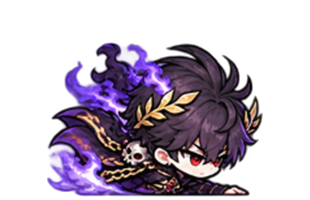
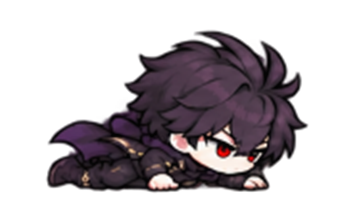
Replace Hades Mythic skin with sleek new character, umbrella & mask sprites and always-on soft behind-hero aura

diff --git a/js/renderer.js b/js/renderer.js
@@ -16,7 +16,7 @@ window.RunRenderer = (function () {
     { id: 'skier', frames: 2 },
     { id: 'santa', frames: 2 },
     { id: 'catgirl', frames: 4, runFrames: 8 },
-    { id: 'hades', frames: 3, idleFrames: 8, runFrames: 8 }
+    { id: 'hades', frames: 3, runFrames: 4 }
   ];
   const CHAR_ANIM_STATES = ['idle', 'run', 'jump', 'fall', 'slide', 'hurt', 'die'];
   const CHAR_VFX_SPRITES = [
@@ -56,7 +56,7 @@ window.RunRenderer = (function () {
   ];
 
   const sprites = {};
-  const CHAR_ASSET_VER = '20261121hd48';
+  const CHAR_ASSET_VER = '20261121hd49';
   const CHEST_TIERS = ['wood', 'silver', 'gold', 'diamond'];
 
   CHEST_TIERS.forEach((tier) => {
@@ -983,29 +983,41 @@ window.RunRenderer = (function () {
       }
     }
 
-    // Fever rainbow aura / Hades 6-frame swirling purple flame ring / Uploaded glowing Shield Ring VFX!
-    if (!dead && feverTimer > 0) {
-      if (skinDef && skinDef.customAuraPrefix) {
-        const af = Math.floor(t * 14) % (skinDef.customAuraFrames || 6);
-        const auraSpr = getSprite(`${skinDef.customAuraPrefix}_${af}`) || getSprite(`${skinDef.customAuraPrefix}_0`);
-        if (auraSpr) {
-          const pulse = 1.0 + Math.sin(t * 10) * 0.05;
-          const aSz = Math.round((isProne ? 58 : scaleHeight * 1.38) * pulse);
-          ctx.save();
-          ctx.globalAlpha = 0.84;
-          ctx.imageSmoothingEnabled = true;
-          ctx.imageSmoothingQuality = 'high';
-          ctx.drawImage(auraSpr, Math.floor(cx - aSz / 2), Math.floor(cy - (isProne ? 16 : scaleHeight * 0.48) - aSz / 2), aSz, aSz);
-          ctx.restore();
-        }
-      } else {
-        ctx.strokeStyle = Math.floor(t * 14) % 2 === 0 ? '#ffe85c' : '#63e8ff';
-        ctx.lineWidth = 2.5;
-        ctx.beginPath();
-        ctx.arc(cx, cy - (isProne ? 14 : scaleHeight * 0.48), isProne ? 24 : scaleHeight * 0.56, 0, Math.PI * 2);
-        ctx.stroke();
+    // Always-on soft glowing underworld aura BEHIND Mythic Hades (intensifies smoothly during FEVER!)
+    if (!dead && skinDef && skinDef.customAuraPrefix) {
+      const isFever = feverTimer > 0;
+      const af = Math.floor(t * (isFever ? 14 : 9)) % (skinDef.customAuraFrames || 6);
+      const auraSpr = getSprite(`${skinDef.customAuraPrefix}_${af}`) || getSprite(`${skinDef.customAuraPrefix}_0`);
+      const auraCy = cy - (isProne ? 18 : scaleHeight * 0.48);
+      // Soft atmospheric ambient purple backlight behind Hades
+      const backR = isFever ? (isProne ? 38 : scaleHeight * 0.82) : (isProne ? 30 : scaleHeight * 0.68);
+      const backGrad = ctx.createRadialGradient(cx, auraCy, 4, cx, auraCy, backR);
+      backGrad.addColorStop(0, isFever ? 'rgba(180, 92, 255, 0.48)' : 'rgba(166, 78, 255, 0.28)');
+      backGrad.addColorStop(1, 'rgba(120, 42, 235, 0)');
+      ctx.save();
+      ctx.fillStyle = backGrad;
+      ctx.beginPath();
+      ctx.arc(cx, auraCy, backR, 0, Math.PI * 2);
+      ctx.fill();
+      if (auraSpr) {
+        const pulse = 1.0 + Math.sin(t * (isFever ? 10 : 4.5)) * 0.05;
+        const aSz = Math.round((isFever ? (isProne ? 60 : scaleHeight * 1.44) : (isProne ? 54 : scaleHeight * 1.30)) * pulse);
+        ctx.globalAlpha = isFever ? 0.84 : (0.36 + Math.sin(t * 4.5) * 0.08);
+        ctx.imageSmoothingEnabled = true;
+        ctx.imageSmoothingQuality = 'high';
+        ctx.drawImage(auraSpr, Math.floor(cx - aSz / 2), Math.floor(auraCy - aSz / 2), aSz, aSz);
       }
-    } else if (!dead && shield) {
+      ctx.restore();
+    }
+
+    // Fever rainbow aura (for non-customAura skins) / Uploaded glowing Shield Ring VFX!
+    if (!dead && feverTimer > 0 && !(skinDef && skinDef.customAuraPrefix)) {
+      ctx.strokeStyle = Math.floor(t * 14) % 2 === 0 ? '#ffe85c' : '#63e8ff';
+      ctx.lineWidth = 2.5;
+      ctx.beginPath();
+      ctx.arc(cx, cy - (isProne ? 14 : scaleHeight * 0.48), isProne ? 24 : scaleHeight * 0.56, 0, Math.PI * 2);
+      ctx.stroke();
+    } else if (!dead && shield && feverTimer <= 0) {
       let ringSpr = null;
       if (skinDef && skinDef.customShieldPrefix) {
         const sf = Math.floor(t * 10) % (skinDef.customShieldFrames || 6);
@@ -1214,15 +1226,15 @@ window.RunRenderer = (function () {
       ctx.drawImage(spr, Math.floor(-drawW / 2), Math.floor(-drawH), drawW, drawH);
       if ('filter' in ctx) ctx.filter = 'none';
 
-      // Uploaded KF94 Mask Sprite OR Mythic Custom Mask (e.g. Hades Skull Flame Mask!)
+      // Uploaded KF94 Mask Sprite OR Mythic Custom Mask (e.g. Hades Purple Mask!)
       if (maskOn && !dead) {
         const customMsk = skinDef && skinDef.customMask ? getSprite(skinDef.customMask) : null;
         const maskSpr = customMsk || getSprite('spr_mask');
         if (maskSpr) {
           const mw = customMsk ? (sliding ? 19 : 21) : (sliding ? 20 : 22);
           const mh = Math.round(mw * (maskSpr.naturalHeight / maskSpr.naturalWidth));
-          const mx = sliding ? Math.floor(drawW * 0.06) : Math.floor(-mw * (customMsk ? 0.06 : 0.14));
-          const my = sliding ? Math.floor(-drawH * 0.40) : Math.floor(-drawH * 0.47);
+          const mx = sliding ? Math.floor(drawW * 0.08) : Math.floor(customMsk ? drawW * 0.02 : -mw * 0.14);
+          const my = sliding ? Math.floor(-drawH * 0.40) : Math.floor(-drawH * (customMsk ? 0.45 : 0.50));
           ctx.drawImage(maskSpr, mx, my, mw, mh);
         } else {
           const my = sliding ? Math.floor(-drawH * 0.34) : Math.floor(-drawH * 0.44);

diff --git a/index.html b/index.html
@@ -13,7 +13,7 @@
   <link rel="apple-touch-icon" sizes="180x180" href="assets/icons/apple-touch-icon-180.png?v=20261121hd21" />
   <link rel="manifest" href="manifest.json?v=20261121hd21" />
   <title>한국 날씨에서 살아남기</title>
-  <link rel="stylesheet" href="style.css?v=20261121hd48" />
+  <link rel="stylesheet" href="style.css?v=20261121hd49" />
 </head>
 <body>
   <div id="mobile-app">
@@ -179,6 +179,7 @@
               <button id="btn-prev-char" class="bs-side-arrow left" type="button" aria-label="이전 캐릭터">◀</button>
 
               <button id="btn-home-char-info" class="bs-podium-btn" type="button" title="캐릭터 능력 및 스킨 보기">
+                <img id="home-hero-aura" src="" alt="" class="bs-hero-aura hidden" aria-hidden="true" />
                 <img id="home-hero-img" src="assets/chars/yellow_run_0.png?v=20261121hd16" alt="선택 캐릭터" class="bs-hero-img running-hero" />
                 <span class="bs-run-dust d1" aria-hidden="true"></span>
                 <span class="bs-run-dust d2" aria-hidden="true"></span>
@@ -851,11 +852,11 @@
   <!-- Official Firebase Auth SDK (Google Real OAuth) -->
   <script src="https://www.gstatic.com/firebasejs/10.14.1/firebase-app-compat.js"></script>
   <script src="https://www.gstatic.com/firebasejs/10.14.1/firebase-auth-compat.js"></script>
-  <script src="js/data.js?v=20261121hd48"></script>
+  <script src="js/data.js?v=20261121hd49"></script>
   <script src="js/audio.js?v=20261121hd9"></script>
-  <script src="js/online.js?v=20261121hd48"></script>
-  <script src="js/renderer.js?v=20261121hd48"></script>
-  <script src="js/game.js?v=20261121hd48"></script>
+  <script src="js/online.js?v=20261121hd49"></script>
+  <script src="js/renderer.js?v=20261121hd49"></script>
+  <script src="js/game.js?v=20261121hd49"></script>
   <script>
     if ('serviceWorker' in navigator && (location.protocol === 'https:' || location.hostname === 'localhost')) {
       window.addEventListener('load', () => {

diff --git a/js/game.js b/js/game.js
@@ -83,7 +83,7 @@
     return `${utc.getUTCFullYear()}-W${String(weekNo).padStart(2, '0')}`;
   }
 
-  const ASSET_VER = '20261121hd48';
+  const ASSET_VER = '20261121hd49';
 
   function haptic(ms = 10) {
     if (typeof navigator !== 'undefined' && navigator.vibrate) {
@@ -390,6 +390,7 @@
     btnSettingsOk: document.getElementById('btn-settings-ok'),
 
     homeHeroStage: document.getElementById('home-hero-stage'),
+    homeHeroAura: document.getElementById('home-hero-aura'),
     homeHeroImg: document.getElementById('home-hero-img'),
     btnHomeCharInfo: document.getElementById('btn-home-char-info'),
     homeCharName: document.getElementById('home-char-name'),
@@ -2415,6 +2416,13 @@
     el.homeHeroImg.alt = skin ? `${ch.name} (${skin.name})` : ch.name;
     el.homeHeroImg.style.filter = getSkinFilter(skin);
     el.homeHeroImg.style.setProperty('--skin-glow', skin ? skin.glow : '');
+    if (el.homeHeroAura) {
+      const hasAura = Boolean(unlocked && skin && skin.customAuraPrefix);
+      el.homeHeroAura.classList.toggle('hidden', !hasAura);
+      if (hasAura) {
+        el.homeHeroAura.src = `assets/chars/${skin.customAuraPrefix}_0.png?v=${ASSET_VER}`;
+      }
+    }
     el.homeCharLvBadge.textContent = unlocked ? `POWER ${stats.level}` : '잠금';
     el.homeCharTier.textContent = unlocked
       ? (skin ? `✨ ${skin.name}` : ch.tier)
@@ -2469,6 +2477,14 @@
     if (readySrc && readySrc !== lastHomeHeroSrc) {
       lastHomeHeroSrc = readySrc;
       el.homeHeroImg.src = readySrc;
+    }
+    if (el.homeHeroAura && skin && skin.customAuraPrefix && isCharUnlocked(ch.id)) {
+      const af = Math.floor(t * 9) % (skin.customAuraFrames || 6);
+      const auraSrc = `assets/chars/${skin.customAuraPrefix}_${af}.png?v=${ASSET_VER}`;
+      const readyAura = getPreloadedHomeHeroSrc(auraSrc);
+      if (readyAura && el.homeHeroAura.getAttribute('src') !== readyAura) {
+        el.homeHeroAura.src = readyAura;
+      }
     }
   }
 

diff --git a/js/data.js b/js/data.js
@@ -325,9 +325,8 @@ window.RUN_DATA = (function () {
       filter: 'none',
       customAnimSkin: 'hades',
       customAnimFrames: 3,
-      customIdleFrames: 8,
-      customRunFrames: 8,
-      customAvatar: 'assets/chars/port_hades.png?v=20261121hd48',
+      customRunFrames: 4,
+      customAvatar: 'assets/chars/port_hades.png?v=20261121hd49',
       customUmbrella: 'hades_umbrella',
       customMask: 'hades_mask',
       customShieldPrefix: 'hades_shield',
@@ -338,8 +337,8 @@ window.RUN_DATA = (function () {
       customAuraFrames: 6,
       gemPrice: 1000,
       glow: '#a84cff',
-      trail: ['#a84cff', '#ff5ee8', '#6028ff'],
-      desc: '명계의 불꽃 풀애니메이션 · 전용 해골 우산 & 마스크 · 6프레임 보호막 · 12프레임 불꽃 부스터 & 피버 오라!'
+      trail: ['#a84cff', '#d28eff', '#6f2dff'],
+      desc: '뒤에서 은은하게 빛나는 명계 오라 · 전용 보라 우산 & 마스크 · 6프레임 보호막 · 12프레임 불꽃 부스터!'
     }
   ];
 

diff --git a/style.css b/style.css
@@ -9227,3 +9227,38 @@ input:focus-visible {
     font-size: 12px;
   }
 }
+
+/* Always-on Soft Glowing Mythic Aura Behind Home Pedestal Hero (e.g. Hades!) */
+.bs-hero-aura {
+  position: absolute;
+  top: 50%;
+  left: 50%;
+  width: 210px;
+  height: 210px;
+  margin-top: -120px;
+  margin-left: -105px;
+  z-index: 2;
+  object-fit: contain;
+  pointer-events: none;
+  opacity: 0.56;
+  filter: drop-shadow(0 0 16px rgba(168, 76, 255, 0.72));
+  animation: hadesHomeAuraPulse 2.4s ease-in-out infinite;
+}
+
+.bs-hero-aura.hidden {
+  display: none !important;
+}
+
+@keyframes hadesHomeAuraPulse {
+  0%, 100% { transform: scale(0.95); opacity: 0.44; }
+  50% { transform: scale(1.06); opacity: 0.64; }
+}
+
+@media (max-height: 440px), (orientation: portrait) and (max-width: 520px) {
+  .bs-hero-aura {
+    width: 148px;
+    height: 148px;
+    margin-top: -86px;
+    margin-left: -74px;
+  }
+}

diff --git a/sw.js b/sw.js
@@ -1,4 +1,4 @@
-const CACHE_NAME = 'k-weather-survival-v20261121hd48';
+const CACHE_NAME = 'k-weather-survival-v20261121hd49';
 const CORE_ASSETS = [
   './',
   './index.html',
